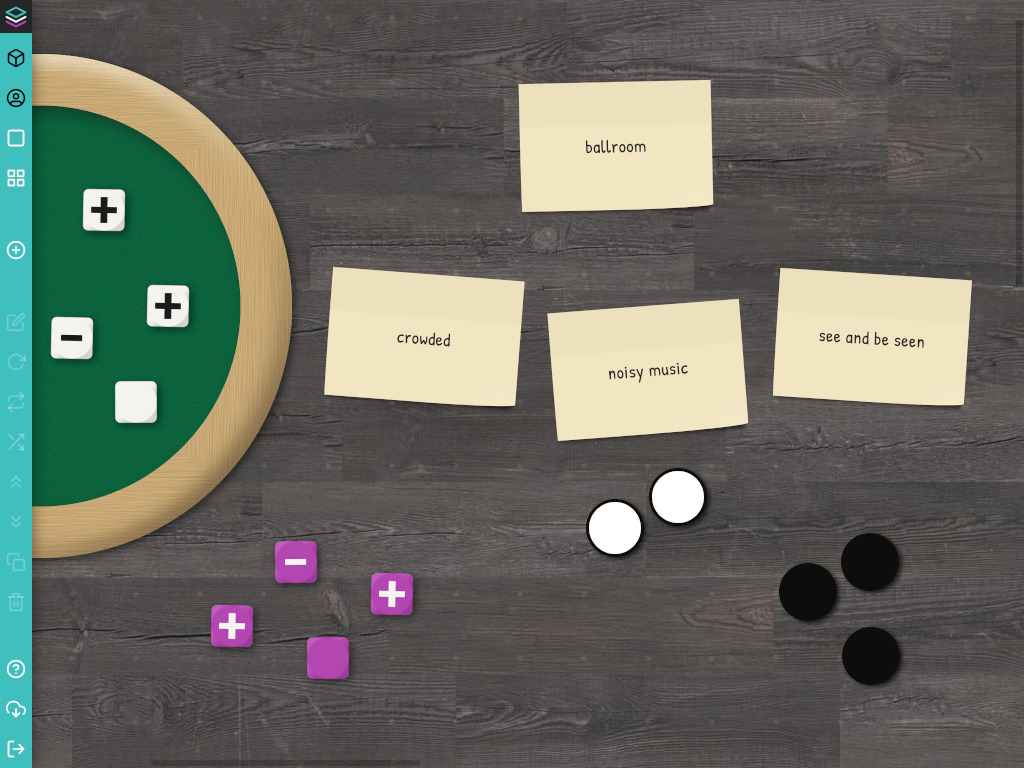
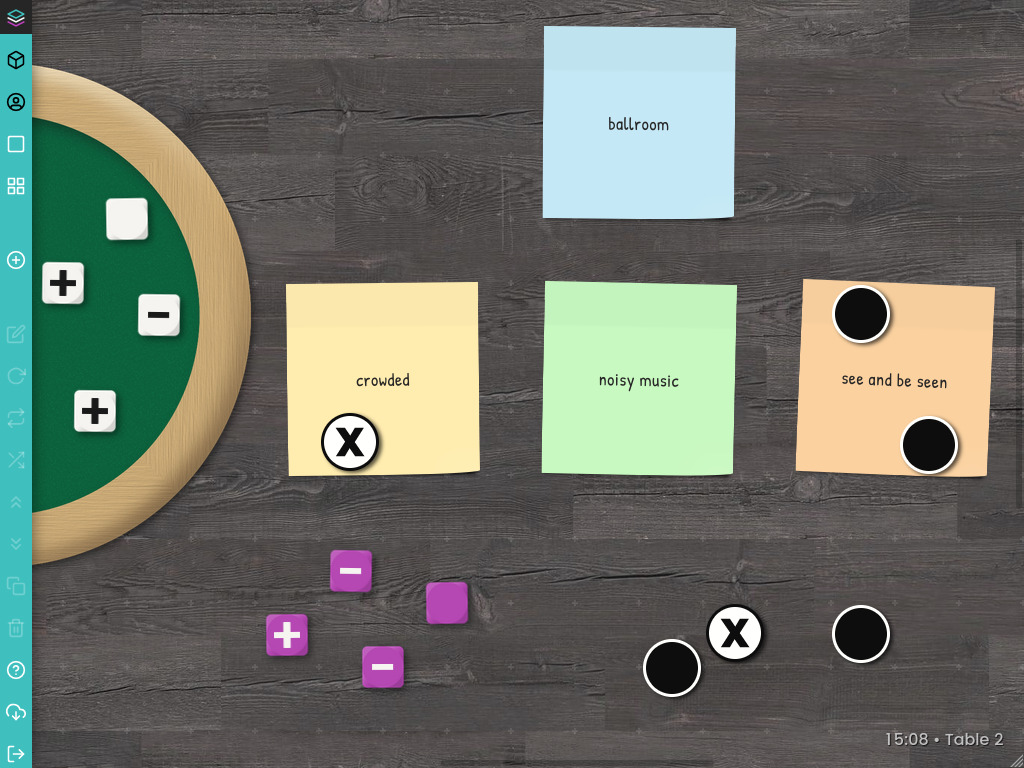
updated screenshots, bumped version & updated CHANGELOG

diff --git a/docs/roadmap.md b/docs/roadmap.md
@@ -2,31 +2,12 @@
 
 This document is part of the [FreeBeeGee documentation](DOCS.md). It contains a list what might happen next. However, priorities may change.
 
-## v0.11 - Troubled Trout
-
-* [X] better feedback for Apache httpd setup issues
-* [X] better feedback for PHP setup issues
-* [X] slight table texture offset for different tables 1..9
-* [X] increase sticky note text length to 128
-* [X] start at center of empty tables
-* [X] sticky notes colors
-* [X] tutorial table template
-* [X] refactored piece fiel border->color
-* [ ] pre-release
-  * [X] bugfixing
-    * [X] fix auto-center not always working
-    * [X] fix piece position when adding them via (+)
-  * [X] review + run tests
-  * [ ] update screenshots
-  * [X] review docs
-  * [ ] bump version/codename & update CHANGELOG
-
 ## v0.12 - ???
 
 * [ ] table passwords
 * [ ] more table backgrounds
 * [ ] use image masks for png backsides
-* [ ] rightclick on table
+* [ ] right-click on table
   * [ ] add piece
   * [ ] change table 1..9
   * [ ] change background

diff --git a/CHANGELOG.md b/CHANGELOG.md
@@ -2,6 +2,30 @@
 
 Download current and previous versions from [https://github.com/ludus-leonis/FreeBeeGee/releases](https://github.com/ludus-leonis/FreeBeeGee/releases).
 
+## v0.11.0 - Troubled Trout
+
+This is a breaking release changing internal data structures. Old snapshots will no longer work.
+
+### Notable changes
+
+* added error reporting on missing PHP requirements
+* added error message on missing .htaccess support during setup
+* added sticky note colors
+* added tutorial template
+
+### Other changes
+
+* changed sticky note max text length to 128
+* fixed piece position when adding them via (+)
+* improved classic template
+* improved scroll position handling when switching tables
+* added auto-center view for empty tables
+* added troubleshooting guide
+* added differnt, slight offsets for table 1..9 textures
+* fixed api tests
+* updated docs
+* refactored pieces border->color
+
 ## v0.10.0 - Pointing Pony
 
 This is a breaking release changing internal data structures. Old snapshots will no longer work.
